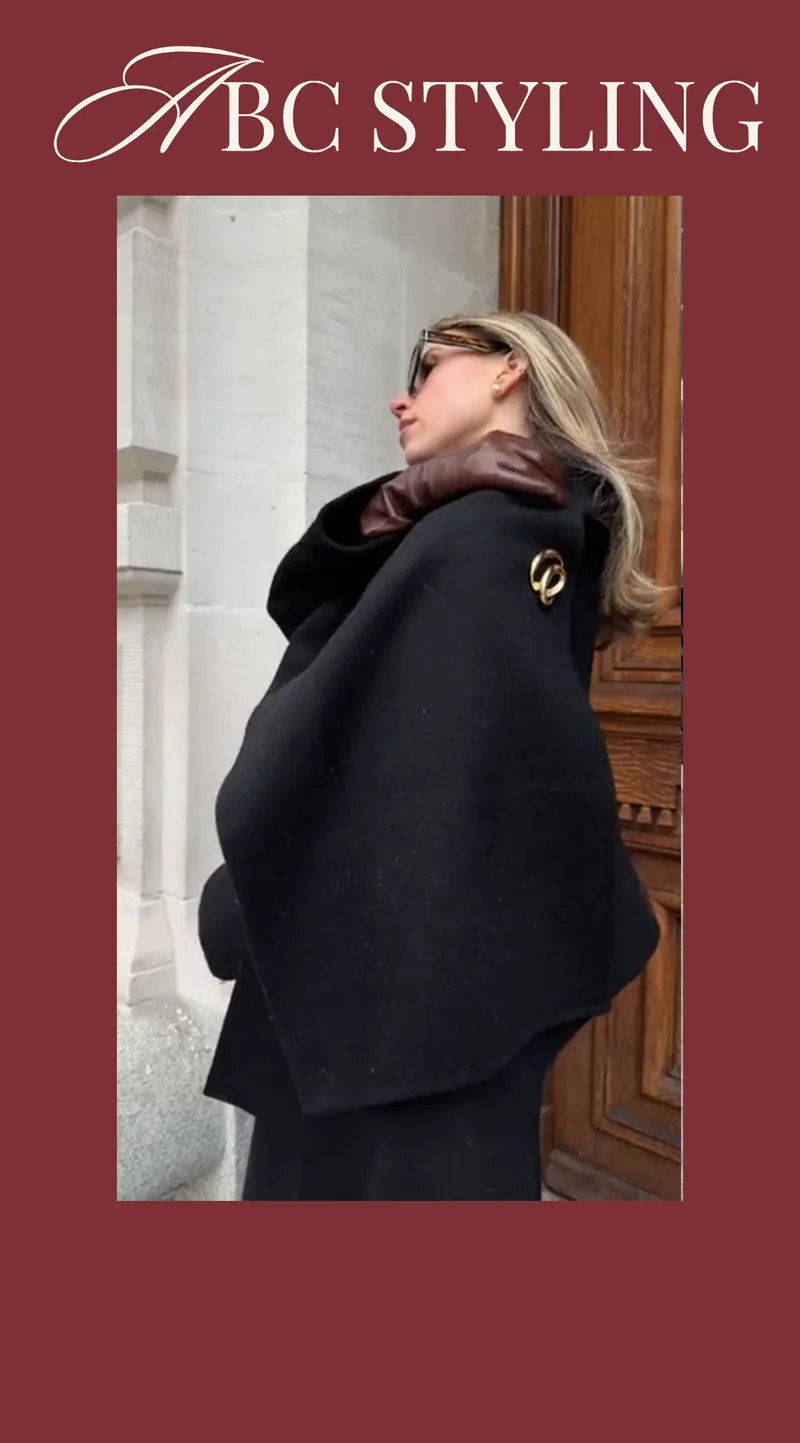
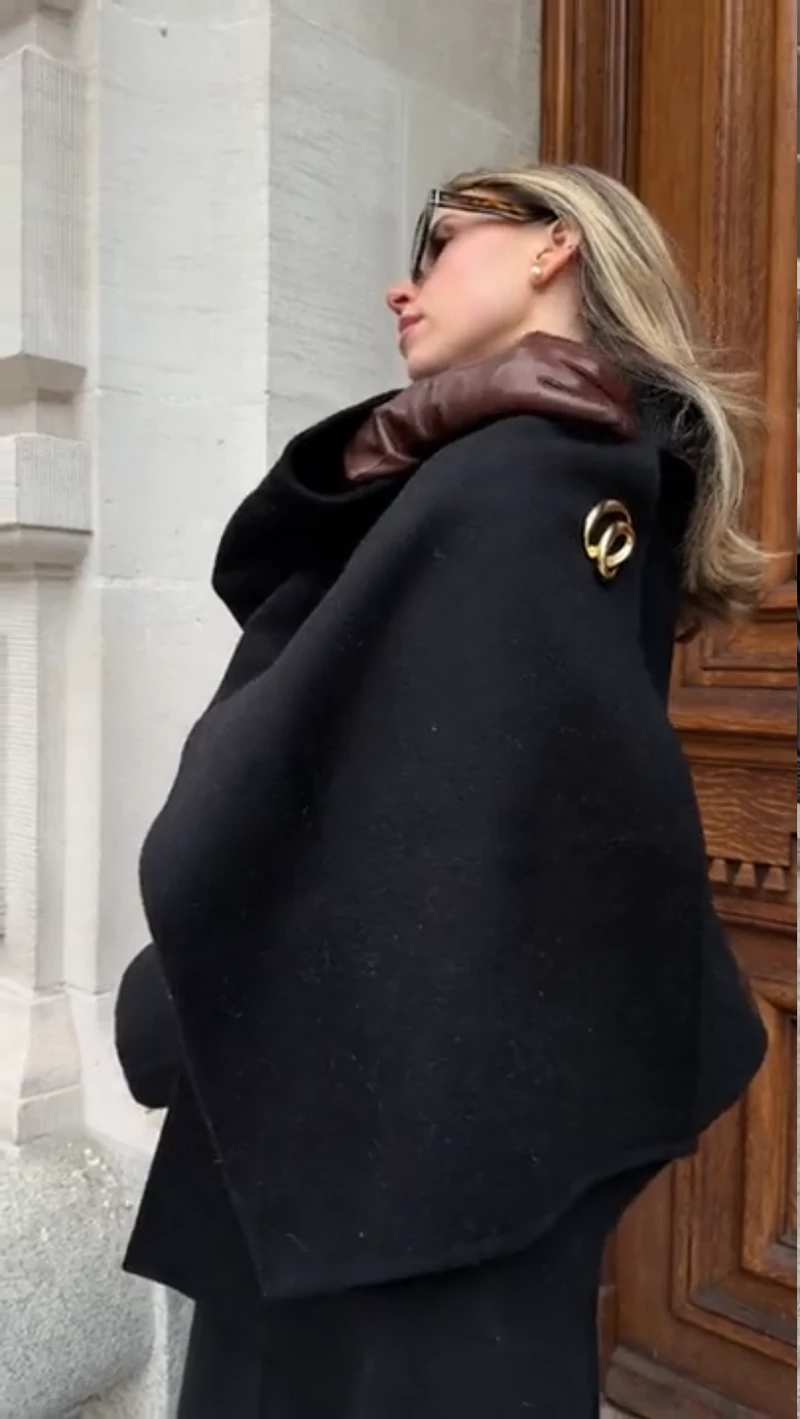
Refresh hero covers and unify the mobile nav
Replace the Loftus bridge Businesses cover with a text-free Lewiston entrance photo, and crop Annie's Creators cover to the photo only. Make the phone Menu control match Client login, and give every page the same solid header on small screens.

diff --git a/assets/site.css b/assets/site.css
@@ -99,12 +99,14 @@ p { margin: 0 0 1em; text-wrap: pretty; }
   .nav .sep { padding-left: 14px; }
 }
 .bar .tools { display: none; align-items: center; gap: 18px; }
-.menu-btn { appearance: none; -webkit-appearance: none; background: none; border: 0; border-bottom: 1px solid var(--ink); color: var(--ink); font: 500 14px/1 var(--sans); padding: 6px 0; border-radius: 0; cursor: pointer; }
+.menu-btn { appearance: none; -webkit-appearance: none; background: none; border: 0; border-bottom: 1px solid transparent; color: var(--ink); font: inherit; font-size: 14px; font-weight: 500; letter-spacing: .01em; line-height: inherit; padding: 6px 0; border-radius: 0; cursor: pointer; display: inline; }
 .drawer { display: none; }
 @media (max-width: 900px) {
   :root { --barh: 64px; }
   .bar .home img { height: 34px; top: 3px; }
   .nav { display: none; }
+  .bar { background: #ffffff; -webkit-backdrop-filter: none; backdrop-filter: none; }
+  .bar-glass { display: none; }
   .bar .tools { display: flex; }
   /* The drawer lives at body level, outside the frosted bar: a backdrop
      filter on an ancestor would make it the drawer's containing block and
@@ -626,8 +628,6 @@ figcaption strong { font: 400 21px/1.2 var(--display); color: var(--ink); margin
 .pane .lede { color: var(--ink); font-weight: 500; }
 .pane .actions .link { background: rgba(255, 255, 255, .82); padding: 12px 16px; }
 @media (max-width: 700px) { .pane::before { inset: -28px -20px; } .enter-words .pane, .glass-head .pane { padding: 0; } }
-/* the menu reads as a button on a phone */
-.menu-btn { border: 1px solid var(--ink); padding: 10px 14px; min-height: 40px; }
 /* white words with a soft shadow read better on the glass than dark ones */
 .pane::before { inset: -56px -96px; background: radial-gradient(closest-side, rgba(28, 26, 23, .42), rgba(28, 26, 23, .2) 62%, rgba(28, 26, 23, 0)); }
 .pane h1, .pane .lede { color: #fff; text-shadow: 0 1px 2px rgba(28, 26, 23, .55), 0 2px 14px rgba(28, 26, 23, .5), 0 0 34px rgba(28, 26, 23, .35); }
@@ -692,8 +692,8 @@ figcaption strong { font: 400 21px/1.2 var(--display); color: var(--ink); margin
   transform: scale(1.001);
   transition: transform .7s ease;
 }
-.hero-col.creators img { object-position: center 20%; }
-.hero-col.businesses img { object-position: left 22%; }
+.hero-col.creators img { object-position: center 18%; }
+.hero-col.businesses img { object-position: center 42%; }
 .hero-col.athletes img { object-position: center 28%; }
 .hero-col.musicians img { object-position: center 40%; }
 .hero-col:hover img,
@@ -736,7 +736,7 @@ figcaption strong { font: 400 21px/1.2 var(--display); color: var(--ink); margin
     gap: 2px;
   }
   .hero-col { aspect-ratio: 3 / 4; }
-  .hero-col.creators img { object-position: center top; }
-  .hero-col.businesses img { object-position: left 15%; }
+  .hero-col.creators img { object-position: center 12%; }
+  .hero-col.businesses img { object-position: center 40%; }
   .hero-col-name { padding: 16px 14px 16px; font-size: clamp(24px, 6.5vw, 30px); }
 }

diff --git a/index.html b/index.html
@@ -28,7 +28,7 @@
   <link rel="preload" href="/assets/fonts/InstrumentSerif-latin.woff2" as="font" type="font/woff2" crossorigin>
   <link rel="preload" href="/assets/fonts/InstrumentSans-latin.woff2" as="font" type="font/woff2" crossorigin>
   <link rel="preload" href="/assets/fonts/SourceSerif4-latin.woff2" as="font" type="font/woff2" crossorigin>
-  <link rel="stylesheet" href="/assets/site.css?v=20261116c">
+  <link rel="stylesheet" href="/assets/site.css?v=20261116d">
 <style>
 .paths{padding:clamp(56px,8vw,112px) 0}
 .paths h2{margin:0 0 28px}
@@ -113,11 +113,11 @@
       </div>
       <div class="hero-cols-grid">
         <a class="hero-col creators" href="/creators">
-          <img src="/assets/hero/creators-1600.webp" srcset="/assets/hero/creators-800.webp 800w, /assets/hero/creators-1600.webp 1170w" sizes="(max-width: 700px) 50vw, 25vw" alt="" width="800" height="1381" fetchpriority="high" decoding="async">
+          <img src="/assets/hero/creators-1600.webp" srcset="/assets/hero/creators-800.webp 800w, /assets/hero/creators-1600.webp 828w" sizes="(max-width: 700px) 50vw, 25vw" alt="" width="800" height="1419" fetchpriority="high" decoding="async">
           <span class="hero-col-name">Creators</span>
         </a>
         <a class="hero-col businesses" href="/businesses">
-          <img src="/assets/hero/businesses-1600.webp" srcset="/assets/hero/businesses-800.webp 800w, /assets/hero/businesses-1600.webp 1600w" sizes="(max-width: 700px) 50vw, 25vw" alt="" width="800" height="1230" fetchpriority="high" decoding="async">
+          <img src="/assets/hero/businesses-1600.webp" srcset="/assets/hero/businesses-800.webp 800w, /assets/hero/businesses-1600.webp 1600w" sizes="(max-width: 700px) 50vw, 25vw" alt="" width="800" height="403" fetchpriority="high" decoding="async">
           <span class="hero-col-name">Businesses</span>
         </a>
         <a class="hero-col athletes" href="/athletes">
@@ -278,6 +278,6 @@
     </div>
   </footer>
 
-  <script src="/assets/site.js?v=20261116c"></script>
+  <script src="/assets/site.js?v=20261116d"></script>
 </body>
 </html>

diff --git a/creators.html b/creators.html
@@ -28,7 +28,7 @@
   <link rel="preload" href="/assets/fonts/InstrumentSerif-latin.woff2" as="font" type="font/woff2" crossorigin>
   <link rel="preload" href="/assets/fonts/InstrumentSans-latin.woff2" as="font" type="font/woff2" crossorigin>
   <link rel="preload" href="/assets/fonts/SourceSerif4-latin.woff2" as="font" type="font/woff2" crossorigin>
-  <link rel="stylesheet" href="/assets/site.css?v=20261116b">
+  <link rel="stylesheet" href="/assets/site.css?v=20261116d">
 <style>
 .page-hero{padding:clamp(24px,4vw,56px) 0 clamp(24px,4vw,48px)}.page-hero .k{margin:0 0 10px}
 .page-hero h1{font-family:"Instrument Serif",serif;font-weight:400;font-size:clamp(42px,6vw,76px);line-height:1.02;margin:0 0 18px;max-width:16ch}
@@ -241,6 +241,6 @@
     </div>
   </footer>
 
-  <script src="/assets/site.js?v=20261116b"></script>
+  <script src="/assets/site.js?v=20261116d"></script>
 </body>
 </html>

diff --git a/athletes.html b/athletes.html
@@ -28,7 +28,7 @@
   <link rel="preload" href="/assets/fonts/InstrumentSerif-latin.woff2" as="font" type="font/woff2" crossorigin>
   <link rel="preload" href="/assets/fonts/InstrumentSans-latin.woff2" as="font" type="font/woff2" crossorigin>
   <link rel="preload" href="/assets/fonts/SourceSerif4-latin.woff2" as="font" type="font/woff2" crossorigin>
-  <link rel="stylesheet" href="/assets/site.css?v=20261116b">
+  <link rel="stylesheet" href="/assets/site.css?v=20261116d">
 <style>
 .paths{padding:clamp(56px,8vw,112px) 0}
 .paths h2{margin:0 0 28px}
@@ -199,6 +199,6 @@
     </div>
   </footer>
 
-  <script src="/assets/site.js?v=20261116b"></script>
+  <script src="/assets/site.js?v=20261116d"></script>
 </body>
 </html>

diff --git a/businesses.html b/businesses.html
@@ -28,7 +28,7 @@
   <link rel="preload" href="/assets/fonts/InstrumentSerif-latin.woff2" as="font" type="font/woff2" crossorigin>
   <link rel="preload" href="/assets/fonts/InstrumentSans-latin.woff2" as="font" type="font/woff2" crossorigin>
   <link rel="preload" href="/assets/fonts/SourceSerif4-latin.woff2" as="font" type="font/woff2" crossorigin>
-  <link rel="stylesheet" href="/assets/site.css?v=20261116b">
+  <link rel="stylesheet" href="/assets/site.css?v=20261116d">
 <style>
 .paths{padding:clamp(56px,8vw,112px) 0}
 .paths h2{margin:0 0 28px}
@@ -199,6 +199,6 @@
     </div>
   </footer>
 
-  <script src="/assets/site.js?v=20261116b"></script>
+  <script src="/assets/site.js?v=20261116d"></script>
 </body>
 </html>

diff --git a/musicians.html b/musicians.html
@@ -28,7 +28,7 @@
   <link rel="preload" href="/assets/fonts/InstrumentSerif-latin.woff2" as="font" type="font/woff2" crossorigin>
   <link rel="preload" href="/assets/fonts/InstrumentSans-latin.woff2" as="font" type="font/woff2" crossorigin>
   <link rel="preload" href="/assets/fonts/SourceSerif4-latin.woff2" as="font" type="font/woff2" crossorigin>
-  <link rel="stylesheet" href="/assets/site.css?v=20261116b">
+  <link rel="stylesheet" href="/assets/site.css?v=20261116d">
 <style>
 .paths{padding:clamp(56px,8vw,112px) 0}
 .paths h2{margin:0 0 28px}
@@ -199,6 +199,6 @@
     </div>
   </footer>
 
-  <script src="/assets/site.js?v=20261116b"></script>
+  <script src="/assets/site.js?v=20261116d"></script>
 </body>
 </html>

diff --git a/404.html b/404.html
@@ -27,7 +27,7 @@
   <link rel="preload" href="/assets/fonts/InstrumentSerif-latin.woff2" as="font" type="font/woff2" crossorigin>
   <link rel="preload" href="/assets/fonts/InstrumentSans-latin.woff2" as="font" type="font/woff2" crossorigin>
   <link rel="preload" href="/assets/fonts/SourceSerif4-latin.woff2" as="font" type="font/woff2" crossorigin>
-  <link rel="stylesheet" href="/assets/site.css?v=20261116b">
+  <link rel="stylesheet" href="/assets/site.css?v=20261116d">
 </head>
 <body>
   <a class="skip" href="#main">Skip to the content</a>
@@ -135,6 +135,6 @@
     </div>
   </footer>
 
-  <script src="/assets/site.js?v=20261116b"></script>
+  <script src="/assets/site.js?v=20261116d"></script>
 </body>
 </html>

diff --git a/about.html b/about.html
@@ -27,7 +27,7 @@
   <link rel="preload" href="/assets/fonts/InstrumentSerif-latin.woff2" as="font" type="font/woff2" crossorigin>
   <link rel="preload" href="/assets/fonts/InstrumentSans-latin.woff2" as="font" type="font/woff2" crossorigin>
   <link rel="preload" href="/assets/fonts/SourceSerif4-latin.woff2" as="font" type="font/woff2" crossorigin>
-  <link rel="stylesheet" href="/assets/site.css?v=20261116b">
+  <link rel="stylesheet" href="/assets/site.css?v=20261116d">
 </head>
 <body>
   <a class="skip" href="#main">Skip to the content</a>
@@ -145,6 +145,6 @@
     </div>
   </footer>
 
-  <script src="/assets/site.js?v=20261116b"></script>
+  <script src="/assets/site.js?v=20261116d"></script>
 </body>
 </html>

diff --git a/accessibility.html b/accessibility.html
@@ -27,7 +27,7 @@
   <link rel="preload" href="/assets/fonts/InstrumentSerif-latin.woff2" as="font" type="font/woff2" crossorigin>
   <link rel="preload" href="/assets/fonts/InstrumentSans-latin.woff2" as="font" type="font/woff2" crossorigin>
   <link rel="preload" href="/assets/fonts/SourceSerif4-latin.woff2" as="font" type="font/woff2" crossorigin>
-  <link rel="stylesheet" href="/assets/site.css?v=20261116b">
+  <link rel="stylesheet" href="/assets/site.css?v=20261116d">
 </head>
 <body>
   <a class="skip" href="#main">Skip to the content</a>
@@ -170,6 +170,6 @@
     </div>
   </footer>
 
-  <script src="/assets/site.js?v=20261116b"></script>
+  <script src="/assets/site.js?v=20261116d"></script>
 </body>
 </html>

diff --git a/contact.html b/contact.html
@@ -27,7 +27,7 @@
   <link rel="preload" href="/assets/fonts/InstrumentSerif-latin.woff2" as="font" type="font/woff2" crossorigin>
   <link rel="preload" href="/assets/fonts/InstrumentSans-latin.woff2" as="font" type="font/woff2" crossorigin>
   <link rel="preload" href="/assets/fonts/SourceSerif4-latin.woff2" as="font" type="font/woff2" crossorigin>
-  <link rel="stylesheet" href="/assets/site.css?v=20261116b">
+  <link rel="stylesheet" href="/assets/site.css?v=20261116d">
 </head>
 <body>
   <a class="skip" href="#main">Skip to the content</a>
@@ -159,6 +159,6 @@
     </div>
   </footer>
 
-  <script src="/assets/site.js?v=20261116b"></script>
+  <script src="/assets/site.js?v=20261116d"></script>
 </body>
 </html>

diff --git a/cookies.html b/cookies.html
@@ -27,7 +27,7 @@
   <link rel="preload" href="/assets/fonts/InstrumentSerif-latin.woff2" as="font" type="font/woff2" crossorigin>
   <link rel="preload" href="/assets/fonts/InstrumentSans-latin.woff2" as="font" type="font/woff2" crossorigin>
   <link rel="preload" href="/assets/fonts/SourceSerif4-latin.woff2" as="font" type="font/woff2" crossorigin>
-  <link rel="stylesheet" href="/assets/site.css?v=20261116b">
+  <link rel="stylesheet" href="/assets/site.css?v=20261116d">
 </head>
 <body>
   <a class="skip" href="#main">Skip to the content</a>
@@ -170,6 +170,6 @@
     </div>
   </footer>
 
-  <script src="/assets/site.js?v=20261116b"></script>
+  <script src="/assets/site.js?v=20261116d"></script>
 </body>
 </html>

diff --git a/partners.html b/partners.html
@@ -27,7 +27,7 @@
   <link rel="preload" href="/assets/fonts/InstrumentSerif-latin.woff2" as="font" type="font/woff2" crossorigin>
   <link rel="preload" href="/assets/fonts/InstrumentSans-latin.woff2" as="font" type="font/woff2" crossorigin>
   <link rel="preload" href="/assets/fonts/SourceSerif4-latin.woff2" as="font" type="font/woff2" crossorigin>
-  <link rel="stylesheet" href="/assets/site.css?v=20261116b">
+  <link rel="stylesheet" href="/assets/site.css?v=20261116d">
 </head>
 <body>
   <a class="skip" href="#main">Skip to the content</a>
@@ -176,6 +176,6 @@
     </div>
   </footer>
 
-  <script src="/assets/site.js?v=20261116b"></script>
+  <script src="/assets/site.js?v=20261116d"></script>
 </body>
 </html>
